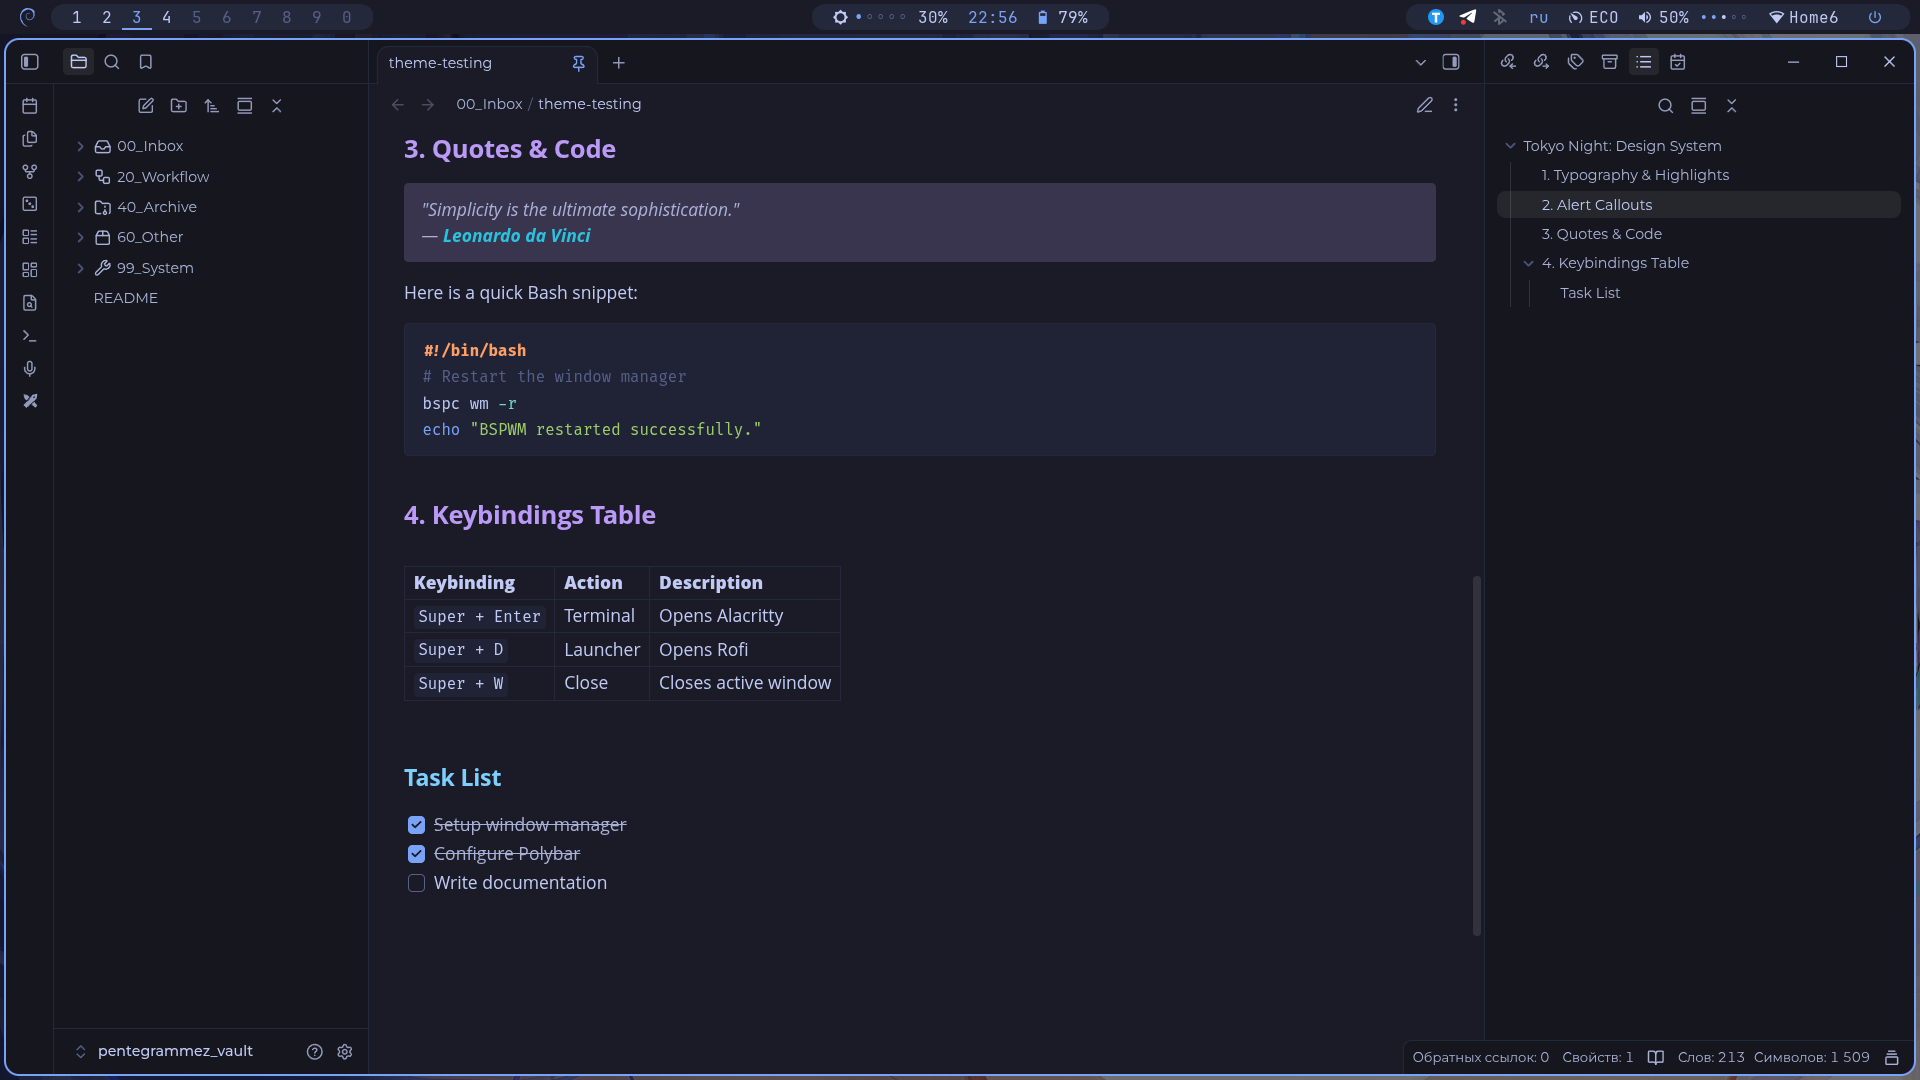
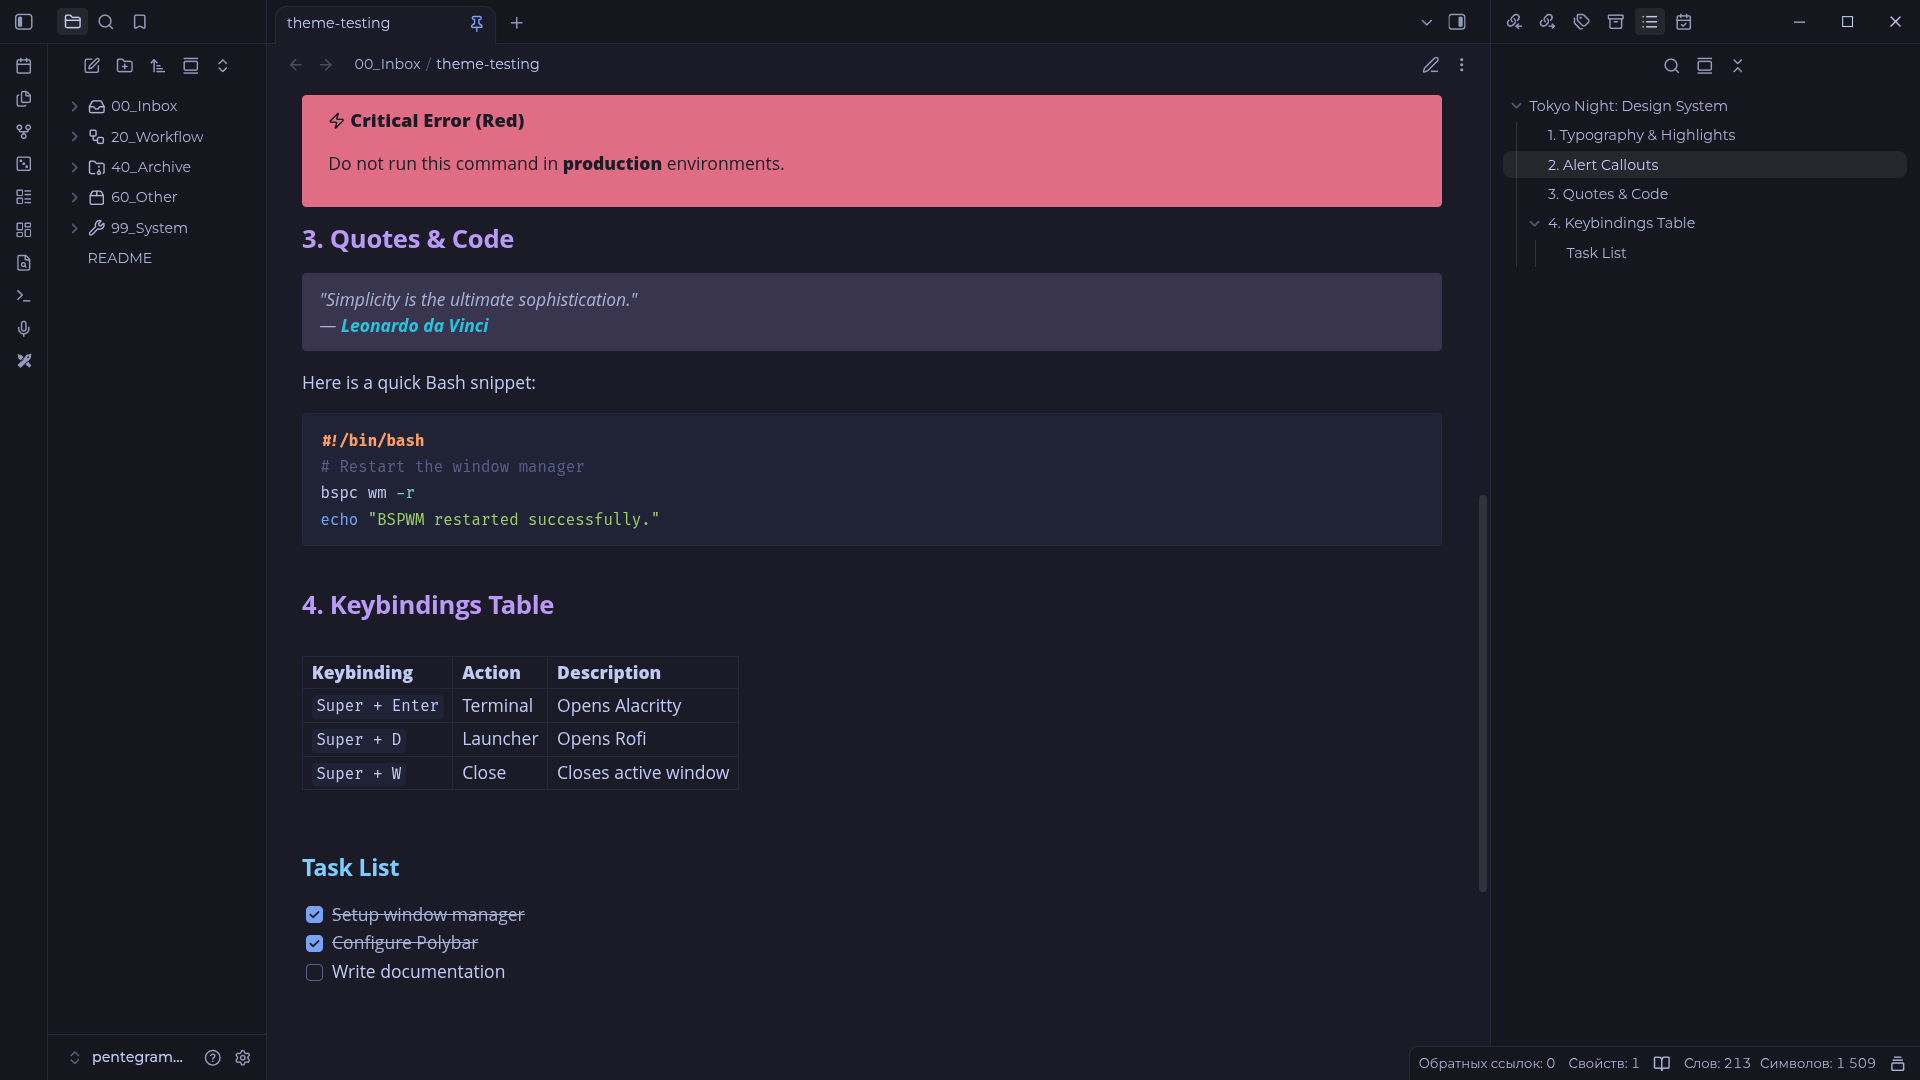
Tags, links, fixes

diff --git a/theme.css b/theme.css
@@ -200,7 +200,6 @@ mark {
 }
 
 /* Режим редактирования (Live Preview) */
-/* 1. Убираем полоску и задаем фон всему блоку */
 .markdown-source-view.mod-cm6 .HyperMD-quote {
 	background-color: color-mix(in srgb, var(--blockquote-border-color) 20%, transparent) !important;
 	border-left: none !important;
@@ -209,64 +208,22 @@ mark {
 	padding-bottom: 4px !important;
 }
 
-/* 2. Убираем полоску и стандартные отступы у каждой строки цитаты */
-/* ВАЖНО: Мы убрали !important у цвета, чтобы выделение == могло менять его */
 .markdown-source-view.mod-cm6 .cm-quote {
 	border-left: none !important;
 	color: var(--text-muted);
 }
 
-/* 3. Задаем отступ для текста внутри строки */
 .markdown-source-view.mod-cm6 .cm-line.cm-quote {
 	padding-left: 12px !important;
 	padding-right: 12px !important;
 }
 
-/* =========================================
-   04. БЛОКИ (Цитаты, Callouts, Код)
-   ========================================= */
-
-/* --- ЦИТАТЫ (> ) --- */
-/* Режим чтения (Read Mode) */
-.markdown-rendered blockquote {
-	padding: 12px 16px;
-	border-radius: 4px;
-	margin: 1em 0;
-	background-color: color-mix(in srgb, var(--blockquote-border-color) 20%, transparent) !important;
-	color: var(--text-muted);
-	border-left: none !important;
-}
-
-/* Режим редактирования (Live Preview) */
-/* 1. Убираем полоску и задаем фон всему блоку */
-.markdown-source-view.mod-cm6 .HyperMD-quote {
-	background-color: color-mix(in srgb, var(--blockquote-border-color) 20%, transparent) !important;
-	border-left: none !important;
-	border-radius: 4px;
-	padding-top: 4px !important;
-	padding-bottom: 4px !important;
-}
-
-/* 2. Убираем полоску и стандартные отступы у каждой строки цитаты */
-.markdown-source-view.mod-cm6 .cm-quote {
-	border-left: none !important;
-	color: var(--text-muted) !important;
-}
-
-/* 3. Задаем отступ для текста внутри строки, чтобы он не прилипал к краю */
-.markdown-source-view.mod-cm6 .cm-line.cm-quote {
-	padding-left: 12px !important;
-	padding-right: 12px !important;
-}
-
-/* Фикс для выделения (==) в редакторе, чтобы не было рамок */
 .cm-s-obsidian span.cm-highlight {
 	padding: 0 2px !important;
 	border-radius: 2px;
 }
 
 /* --- CALLOUTS (Плашки) --- */
-/* Базовый фолбэк для кастомных тегов */
 .callout {
 	--callout-color: 122, 162, 247; 
 	box-shadow: none !important;
@@ -275,7 +232,6 @@ mark {
 	background-color: rgba(var(--callout-color), 0.9) !important; 
 }
 
-/* Убираем полоску у Callouts в режиме редактирования */
 .cm-s-obsidian .cm-callout,
 .cm-s-obsidian .callout {
 	border-left: none !important;
@@ -284,32 +240,31 @@ mark {
 /* Явные цвета для стандартных тегов */
 .callout[data-callout="note"],
 .callout[data-callout="info"],
-.callout[data-callout="todo"] { --callout-color: 122, 162, 247; } /* Синий */
+.callout[data-callout="todo"] { --callout-color: 122, 162, 247; }
 
 .callout[data-callout="tip"],
 .callout[data-callout="hint"],
 .callout[data-callout="success"],
 .callout[data-callout="check"],
-.callout[data-callout="done"] { --callout-color: 158, 206, 106; } /* Зеленый */
+.callout[data-callout="done"] { --callout-color: 158, 206, 106; }
 
 .callout[data-callout="warning"],
 .callout[data-callout="caution"],
-.callout[data-callout="attention"] { --callout-color: 224, 175, 104; } /* Желтый */
+.callout[data-callout="attention"] { --callout-color: 224, 175, 104; }
 
 .callout[data-callout="danger"],
 .callout[data-callout="error"],
 .callout[data-callout="bug"],
 .callout[data-callout="failure"],
 .callout[data-callout="fail"],
-.callout[data-callout="missing"] { --callout-color: 247, 118, 142; } /* Красный */
+.callout[data-callout="missing"] { --callout-color: 247, 118, 142; }
 
 .callout[data-callout="quote"],
 .callout[data-callout="cite"],
 .callout[data-callout="abstract"],
 .callout[data-callout="summary"],
-.callout[data-callout="tldr"] { --callout-color: 187, 154, 247; } /* Фиолетовый */
+.callout[data-callout="tldr"] { --callout-color: 187, 154, 247; }
 
-/* Контрастный текст и иконки внутри коллаутов */
 .callout, 
 .callout-title, 
 .callout-content, 
@@ -319,8 +274,31 @@ mark {
 .callout-title { font-weight: 700; font-size: 1.05em; }
 .callout-icon svg { stroke: var(--text-on-accent) !important; }
 
+/* --- ФИКС ЖИРНОГО И КУРСИВА В CALLOUTS --- */
+.callout strong, 
+.callout .cm-strong {
+	color: inherit !important;
+	font-weight: 900 !important;
+}
+
+.callout em, 
+.callout .cm-em {
+	color: inherit !important;
+	font-weight: bold !important;
+	text-decoration: underline !important;
+}
+
+.callout strong em, 
+.callout em strong,
+.callout .cm-strong.cm-em,
+.callout .cm-em.cm-strong {
+	color: inherit !important;
+	font-weight: 900 !important;
+	text-decoration: underline !important;
+	text-shadow: none !important;
+}
+
 /* --- БЛОКИ КОДА (```) --- */
-/* Режим чтения */
 .markdown-rendered pre {
 	background-color: var(--code-background) !important;
 	border: 1px solid var(--background-modifier-border);
@@ -330,7 +308,6 @@ mark {
 	box-shadow: none !important;
 }
 
-/* Режим редактирования (Live Preview) */
 .cm-s-obsidian .HyperMD-codeblock {
 	background-color: var(--code-background) !important;
 	font-family: var(--font-monospace);
@@ -344,37 +321,100 @@ mark {
 .cm-s-obsidian .HyperMD-codeblock-end { border-bottom-left-radius: 4px; border-bottom-right-radius: 4px; border-bottom: 1px solid var(--background-modifier-border); }
 
 /* =========================================
-   ФИКС ЖИРНОГО И КУРСИВА В CALLOUTS
+   05. ССЫЛКИ (Links)
    ========================================= */
-
-/* 1. Жирный текст внутри Callout */
-.callout strong, 
-.callout .cm-strong {
-	color: inherit !important; /* Берем цвет текста от Callout (темный или светлый) */
-	font-weight: 900 !important; /* Делаем максимально жирным, чтобы отличался */
+a.internal-link,
+a.external-link,
+.cm-s-obsidian span.cm-link,
+.cm-s-obsidian span.cm-url {
+    color: var(--text-accent) !important;
+    text-decoration: underline !important;
+    text-decoration-color: color-mix(in srgb, var(--text-accent) 50%, transparent) !important;
+    text-underline-offset: 3px;
+    transition: all 0.2s ease;
 }
 
-/* 2. Курсив внутри Callout */
-.callout em, 
-.callout .cm-em {
-	color: inherit !important;
-	font-weight: bold !important; /* Добавляем жирность, как ты и хотел для курсива */
-	text-decoration: underline !important; /* Подчеркиваем для 100% читаемости */
+a.internal-link:hover,
+a.external-link:hover,
+.cm-s-obsidian span.cm-link:hover {
+    color: var(--text-accent-hover) !important;
+    text-decoration-color: var(--text-accent-hover) !important;
+    background-color: color-mix(in srgb, var(--text-accent) 10%, transparent);
+    border-radius: 2px;
 }
 
-/* 3. Жирный курсив внутри Callout */
-.callout strong em, 
-.callout em strong,
-.callout .cm-strong.cm-em,
-.callout .cm-em.cm-strong {
-	color: inherit !important;
-	font-weight: 900 !important;
-	text-decoration: underline !important;
-	text-shadow: none !important; /* Убираем свечение, оно тут лишнее */
+/* Неразрешенные ссылки */
+a.internal-link.is-unresolved,
+.cm-s-obsidian span.cm-link.is-unresolved {
+    color: var(--text-faint) !important;
+    text-decoration-style: dashed !important;
 }
 
 /* =========================================
-   05. ДОПОЛНИТЕЛЬНЫЕ ЭЛЕМЕНТЫ
+   06. ТЕГИ (Оранжевый бейдж)
+   ========================================= */
+body {
+    --tag-color: #1a1b26 !important;
+    --tag-background: #ff9e64 !important;
+    --tag-color-hover: #1a1b26 !important;
+    --tag-background-hover: #ff9e64 !important;
+    --tag-border-color: transparent !important;
+    --tag-radius: 15px !important; /* Радиус 15px */
+}
+
+/* --- Режим чтения (Read Mode) --- */
+a.tag {
+    color: #1a1b26 !important;
+    background-color: #ff9e64 !important;
+    border-radius: 15px !important;
+    padding: 4px 12px !important; /* Увеличенные внутренние отступы */
+    margin: 0 6px !important; /* Отступы от текста */
+    text-decoration: none !important;
+    font-weight: bold !important; /* Жирный текст */
+    display: inline-block;
+    line-height: 1.2;
+}
+
+/* --- Режим редактирования (Live Preview) --- */
+.cm-s-obsidian span.cm-hashtag {
+    color: #1a1b26 !important;
+    background-color: #ff9e64 !important;
+    font-weight: bold !important;
+    text-decoration: none !important;
+}
+
+/* Начало тега # (левая часть таблетки) */
+.cm-s-obsidian span.cm-hashtag-begin {
+    padding: 4px 0 4px 12px !important; /* Внутренний отступ слева */
+    border-radius: 15px 0 0 15px !important; /* Скругление слева */
+    margin-left: 6px !important; /* Отступ от предыдущего текста */
+}
+
+/* Конец тега (правая часть таблетки) */
+.cm-s-obsidian span.cm-hashtag-end {
+    padding: 4px 12px 4px 0 !important; /* Внутренний отступ справа */
+    border-radius: 0 15px 15px 0 !important; /* Скругление справа */
+    margin-right: 6px !important; /* Отступ от следующего текста */
+}
+
+/* Середина тега (основной текст) */
+.cm-s-obsidian span.cm-hashtag-middle {
+    padding: 4px 0 !important;
+}
+
+/* --- Фикс для мобилок --- */
+body.is-mobile .tag,
+body.is-mobile .cm-hashtag,
+body.is-mobile .cm-hashtag-begin,
+body.is-mobile .cm-hashtag-middle,
+body.is-mobile .cm-hashtag-end {
+    color: #1a1b26 !important;
+    background-color: #ff9e64 !important;
+    border-radius: 15px !important;
+}
+
+/* =========================================
+   07. ДОПОЛНИТЕЛЬНЫЕ ЭЛЕМЕНТЫ
    ========================================= */
 
 /* Иконки PDF */

diff --git a/README.ru.md b/README.ru.md
@@ -61,7 +61,7 @@
 Если вы предпочитаете скачивать готовый архив:
 
 1. Перейдите на страницу [Releases](https://github.com/machineslego-wq/tokyo-night-by-machineslego-wq/releases).
-2. Скачайте последний `.zip` файл (например, `tokyo-night-flat-v1.0.0.zip`).
+2. Скачайте последний `.zip` файл (например, `tokyo-night-flat-v1.0.1.zip`).
 3. Распакуйте архив в папку `.obsidian/themes/` вашего хранилища.
    *Убедитесь, что итоговый путь выглядит так: `<хранилище>/.obsidian/themes/Tokyo Night Flat/`*
 4. Перезапустите Obsidian, зайдите в **Настройки → Внешний вид → Темы** и выберите **Tokyo Night Flat**.

diff --git a/README.md b/README.md
@@ -61,7 +61,7 @@ This is the most reliable method if you want to install the theme directly from 
 If you prefer to download a packaged release:
 
 1. Go to the [Releases](https://github.com/machineslego-wq/tokyo-night-by-machineslego-wq/releases) page.
-2. Download the latest `.zip` file (e.g., `tokyo-night-flat-v1.0.0.zip`).
+2. Download the latest `.zip` file (e.g., `tokyo-night-flat-v1.0.1.zip`).
 3. Extract the archive into your vault's `.obsidian/themes/` directory.
    *Ensure the final path looks like: `<vault>/.obsidian/themes/Tokyo Night Flat/`*
 4. Restart Obsidian, go to **Settings → Appearance → Themes**, and select **Tokyo Night Flat**.
